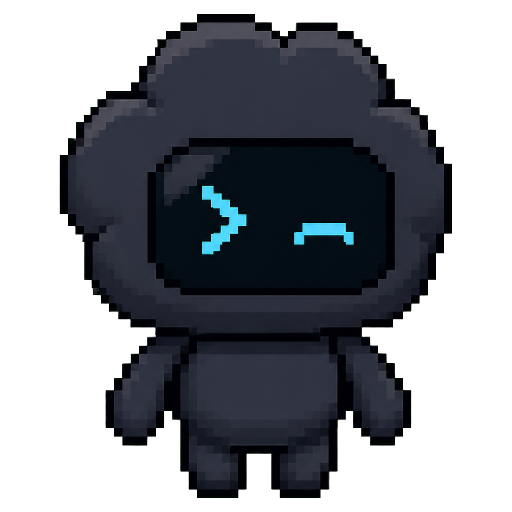
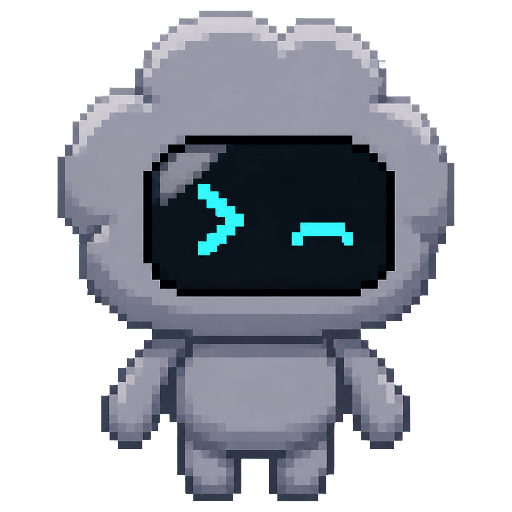
Fix Tetris previews and animate gray AI mascot

diff --git a/akio.css b/akio.css
@@ -664,6 +664,8 @@ body.modal-open {
 .tetris-stats article,
 .tetris-preview-card {
     padding: 12px;
+    display: grid;
+    grid-template-rows: auto minmax(112px, 1fr);
     border: 1px solid #343b30;
     border-radius: 7px;
     background: linear-gradient(145deg, #1c211a, #161a15);
@@ -715,10 +717,15 @@ body.modal-open {
 }
 
 .tetris-preview-card canvas {
-    width: 100%;
-    height: 94px;
+    width: 112px;
+    max-width: 100%;
+    height: auto;
+    margin: 0 auto;
+    align-self: center;
+    justify-self: center;
     display: block;
     border-radius: 4px;
+    image-rendering: pixelated;
 }
 
 .tetris-actions {
@@ -1195,7 +1202,12 @@ body.modal-open {
     }
 
     .tetris-preview-card canvas {
-        height: 68px;
+        width: 72px;
+        height: auto;
+    }
+
+    .tetris-preview-card {
+        grid-template-rows: auto minmax(72px, 1fr);
     }
 
     .tetris-actions {
@@ -1639,11 +1651,26 @@ a {
     pointer-events: none;
     filter: drop-shadow(0 2px 0 rgba(255, 255, 255, 0.22)) drop-shadow(0 7px 7px rgba(0, 0, 0, 0.3));
     transform-origin: 50% 88%;
+    transition: opacity 140ms ease;
+}
+
+.hero-ai-pet-idle {
+    opacity: 1;
     animation: hero-pet-idle 2.8s ease-in-out infinite;
 }
 
-.hero-ai-launch:hover > .hero-ai-pet {
-    animation: hero-pet-greet 650ms ease both;
+.hero-ai-pet-wave {
+    opacity: 0;
+}
+
+.hero-ai-launch:hover > .hero-ai-pet-idle {
+    opacity: 0;
+    animation: none;
+}
+
+.hero-ai-launch:hover > .hero-ai-pet-wave {
+    opacity: 1;
+    animation: hero-pet-wave 720ms ease-in-out both;
 }
 
 @keyframes hero-pet-idle {
@@ -1651,11 +1678,12 @@ a {
     50% { transform: translateY(-5px) rotate(1deg); }
 }
 
-@keyframes hero-pet-greet {
-    0% { transform: translateY(0) rotate(0); }
-    35% { transform: translateY(-11px) rotate(-5deg) scale(1.04); }
-    65% { transform: translateY(-7px) rotate(5deg) scale(1.04); }
-    100% { transform: translateY(-4px) rotate(0) scale(1.02); }
+@keyframes hero-pet-wave {
+    0% { transform: translateY(0) rotate(0) scale(.98); }
+    28% { transform: translateY(-9px) rotate(-4deg) scale(1.04); }
+    52% { transform: translateY(-6px) rotate(3deg) scale(1.04); }
+    76% { transform: translateY(-8px) rotate(-2deg) scale(1.03); }
+    100% { transform: translateY(-5px) rotate(0) scale(1.02); }
 }
 
 @media (prefers-reduced-motion: reduce) {

diff --git a/akio.html b/akio.html
@@ -94,7 +94,8 @@
                             <span class="hero-ai-logo"><img src="images/AkioAI.png" alt=""></span>
                             <span class="hero-ai-copy"><small>Portfolio assistant</small><strong>Ask Akio AI</strong></span>
                             <span class="hero-ai-arrow" aria-hidden="true">↗</span>
-                            <img class="hero-ai-pet" src="images/akio-pet.png" alt="Akio AI's black pixel robot mascot">
+                            <img class="hero-ai-pet hero-ai-pet-idle" src="images/akio-pet.png" alt="Akio AI's gray pixel robot mascot">
+                            <img class="hero-ai-pet hero-ai-pet-wave" src="images/akio-pet-wave.png" alt="" aria-hidden="true">
                         </button>
 
                         <div class="detail-item">
